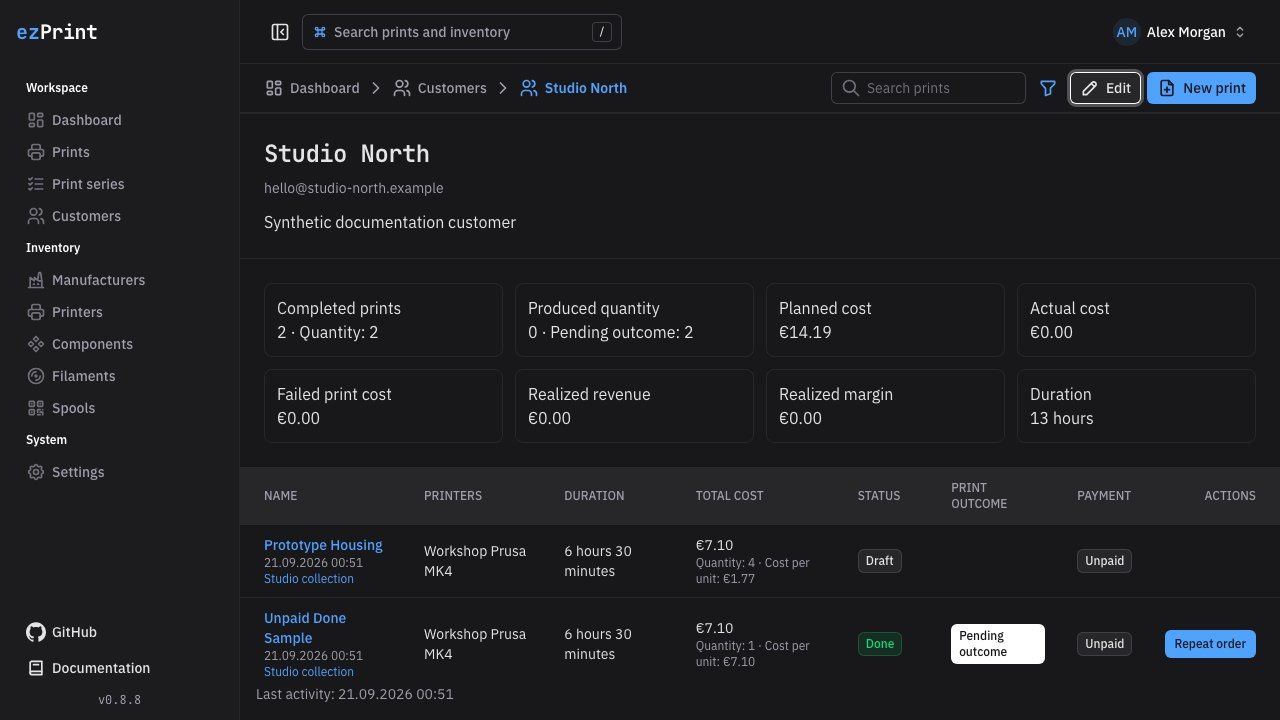
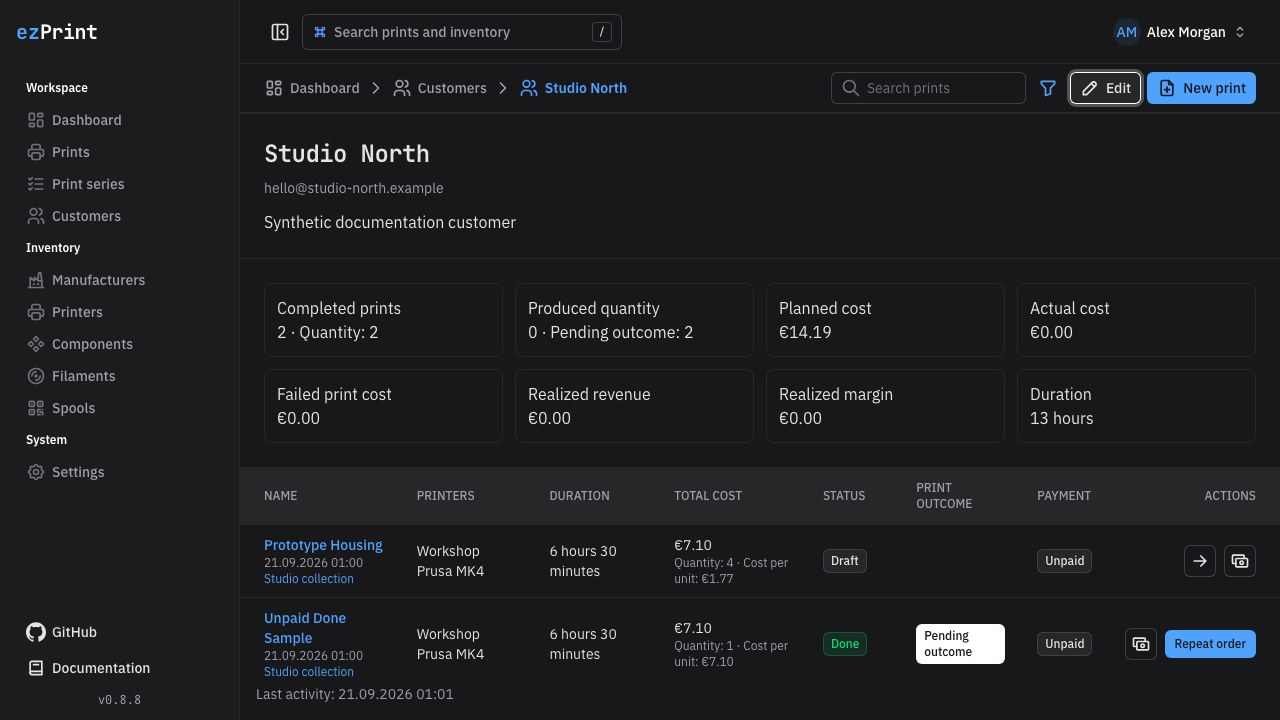
Add print table status and payment actions (#77)
* feat: add print table workflow actions

* test: await online bootstrap before offline check

diff --git a/tests/components/print-workflow-actions.test.ts b/tests/components/print-workflow-actions.test.ts
@@ -1,0 +1,86 @@
+import { createError, readBody } from 'h3';
+import { mountSuspended, registerEndpoint } from '@nuxt/test-utils/runtime';
+import { flushPromises } from '@vue/test-utils';
+import { beforeEach, describe, expect, it, vi } from 'vitest';
+import WorkflowActions from '../../app/components/modules/prints/WorkflowActions.vue';
+import { printStatuses } from '../../shared/schemas/prints';
+
+const print = { id: 'synthetic-print', status: 'DRAFT' as const, paidAt: null, archivedAt: null };
+const global = { stubs: { UTooltip: { inheritAttrs: false, template: '<slot />' } } };
+const request = vi.fn();
+registerEndpoint('/api/prints/synthetic-print', {
+  method: 'PATCH',
+  handler: async (event) =>
+    request('/api/prints/synthetic-print', { method: event.method, body: await readBody(event) }),
+});
+beforeEach(() => {
+  request.mockReset().mockResolvedValue({});
+});
+
+describe('print workflow row actions', () => {
+  it.each(printStatuses)('offers only the next status for %s', async (status) => {
+    const wrapper = await mountSuspended(WorkflowActions, { props: { print: { ...print, status } }, global });
+    const buttons = wrapper.findAll('button');
+    expect(buttons).toHaveLength(status === 'DONE' ? 1 : 2);
+    if (status === 'DRAFT') {
+      expect(request).not.toHaveBeenCalled();
+      wrapper.findComponent({ name: 'CommonConfirmButton' }).vm.$emit('confirm');
+    } else if (status !== 'DONE') await buttons[0]!.trigger('click');
+    await flushPromises();
+    if (status !== 'DONE') {
+      await vi.waitFor(() => expect(wrapper.emitted('updated')).toHaveLength(1));
+      expect(request).toHaveBeenCalledExactlyOnceWith('/api/prints/synthetic-print', {
+        method: 'PATCH',
+        body: { status: printStatuses[printStatuses.indexOf(status) + 1] },
+      });
+      expect(wrapper.emitted('updated')).toHaveLength(1);
+    } else expect(request).not.toHaveBeenCalled();
+    wrapper.unmount();
+  });
+
+  it('marks payment once, locks while pending, and refreshes after success', async () => {
+    let resolve!: (value: object) => void;
+    request.mockImplementation(
+      () =>
+        new Promise<object>((done) => {
+          resolve = done;
+        }),
+    );
+    const wrapper = await mountSuspended(WorkflowActions, {
+      props: { print: { ...print, status: 'PRINTING' } },
+      global,
+    });
+    await wrapper.findAll('button')[1]!.trigger('click');
+    expect(wrapper.findAll('button').every((button) => button.attributes('disabled') !== undefined)).toBe(
+      true,
+    );
+    await vi.waitFor(() => expect(request).toHaveBeenCalledTimes(1));
+    expect(request).toHaveBeenCalledExactlyOnceWith('/api/prints/synthetic-print', {
+      method: 'PATCH',
+      body: { paid: true },
+    });
+    expect(wrapper.emitted('updated')).toBeUndefined();
+    resolve({});
+    await vi.waitFor(() => expect(wrapper.emitted('updated')).toHaveLength(1));
+    expect(wrapper.emitted('updated')).toHaveLength(1);
+    await wrapper.setProps({ print: { ...print, status: 'PRINTING', paidAt: '2026-09-21T00:00:00Z' } });
+    expect(wrapper.findAll('button')).toHaveLength(1);
+    await wrapper.setProps({ print: { ...print, archivedAt: '2026-09-21T00:00:00Z' } });
+    expect(wrapper.findAll('button')).toHaveLength(0);
+    wrapper.unmount();
+  });
+
+  it('reports failed changes without requesting a refresh', async () => {
+    request.mockRejectedValue(createError({ statusCode: 409, statusMessage: 'Synthetic failure' }));
+    const wrapper = await mountSuspended(WorkflowActions, {
+      props: { print: { ...print, status: 'DONE' } },
+      global,
+    });
+    await wrapper.get('button').trigger('click');
+    await flushPromises();
+    await vi.waitFor(() => expect(wrapper.emitted('error')?.[0]?.[0]).toContain('Synthetic failure'));
+    expect(wrapper.emitted('updated')).toBeUndefined();
+    expect(wrapper.get('button').attributes('disabled')).toBeUndefined();
+    wrapper.unmount();
+  });
+});

diff --git a/tests/e2e/application.spec.ts b/tests/e2e/application.spec.ts
@@ -456,5 +456,76 @@ test('setup, navigation, persistence, accessibility, and responsive shell', asyn
   expect(geometry.tableScrollWidth!).toBeGreaterThan(geometry.tableClientWidth!);
   await page.keyboard.press('Tab');
   await expect(page.locator(':focus')).toBeVisible();
+  await page.setViewportSize({ width: 1280, height: 720 });
+  async function createRecord(resource: string, data: object) {
+    const response = await page.request.post(`/api/${resource}`, {
+      headers: { origin: new URL(page.url()).origin },
+      data,
+    });
+    expect(response.ok(), await response.text()).toBe(true);
+    return response.json();
+  }
+  const customer = await createRecord('customers', { name: 'Workflow customer' });
+  const manufacturer = await createRecord('manufacturers', { name: 'Workflow maker' });
+  const printer = await createRecord('printers', {
+    name: 'Workflow printer',
+    manufacturerId: manufacturer.id,
+    purchasePrice: '100',
+    expectedLifetimeHours: '1000',
+    averagePowerWatts: 100,
+  });
+  const buildPlate = await createRecord('components', {
+    name: 'Workflow plate',
+    type: 'BUILD_PLATE',
+    purchasePrice: '10',
+    expectedLifetimeHours: '1000',
+    printerIds: [printer.id],
+  });
+  const hotend = await createRecord('components', {
+    name: 'Workflow hotend',
+    type: 'HOTEND',
+    purchasePrice: '10',
+    expectedLifetimeHours: '1000',
+    printerIds: [printer.id],
+  });
+  const filament = await createRecord('filaments', {
+    manufacturerId: manufacturer.id,
+    material: 'PLA',
+    colorName: 'Blue',
+    colorHex: '#0000FF',
+    purchasePrice: '20',
+    netWeightGrams: '1000',
+  });
+  const spool = await createRecord('spools', {
+    filamentId: filament.id,
+    code: 'WORKFLOW-1',
+    purchasePrice: '20',
+    initialNetWeightGrams: '1000',
+  });
+  const draft = await createRecord('prints', {
+    name: 'Workflow print',
+    customerId: customer.id,
+    printerId: printer.id,
+    buildPlateId: buildPlate.id,
+    hotends: [{ componentId: hotend.id, durationSeconds: 3600 }],
+    filaments: [{ filamentId: filament.id, spoolId: spool.id, usedGrams: '10' }],
+  });
+  await page.goto('/prints');
+  const workflowRow = page.locator('tr').filter({ has: page.locator(`a[href="/prints/${draft.id}"]`) });
+  await workflowRow.getByRole('button', { name: 'Advance to Printing' }).click();
+  await expect(page.getByText('Leaving draft finalizes', { exact: false })).toBeVisible();
+  await page.getByRole('button', { name: 'Confirm', exact: true }).click();
+  await expect(workflowRow.getByRole('button', { name: 'Advance to Printed' })).toBeVisible();
+  await workflowRow.getByRole('button', { name: 'Mark as paid' }).click();
+  await expect(workflowRow.getByRole('button', { name: 'Mark as paid' })).toHaveCount(0);
+  await expect(workflowRow.getByText('Paid', { exact: true })).toBeVisible();
+  await page.goto(`/customers/${draft.customerId}`);
+  await expect(workflowRow.getByRole('button', { name: 'Advance to Printed' })).toBeVisible();
+  await workflowRow.getByRole('button', { name: 'Advance to Printed' }).click();
+  await expect(workflowRow.getByRole('button', { name: 'Advance to Shipped' })).toBeVisible();
+  const updatedPrint = await (await page.request.get(`/api/prints/${draft.id}`)).json();
+  expect(updatedPrint.status).toBe('PRINTED');
+  expect(updatedPrint.paidAt).toBeTruthy();
+  expect(updatedPrint.outcome).toBeNull();
   expect(iconCdnRequests).toEqual([]);
 });

diff --git a/app/components/modules/prints/WorkflowActions.vue b/app/components/modules/prints/WorkflowActions.vue
@@ -1,0 +1,65 @@
+<template>
+  <div v-if="!print.archivedAt" class="flex items-center justify-end gap-2">
+    <UTooltip v-if="nextStatus" :text="nextLabel">
+      <CommonConfirmButton
+        v-if="print.status === 'DRAFT'"
+        icon="i-tabler-arrow-right"
+        color="neutral"
+        variant="outline"
+        :aria-label="nextLabel"
+        :confirmation="t('prints.statusChangeConfirmation')"
+        :disabled="saving"
+        @confirm="update({ status: nextStatus })"
+      />
+      <UButton
+        v-else
+        icon="i-tabler-arrow-right"
+        color="neutral"
+        variant="outline"
+        :aria-label="nextLabel"
+        :loading="saving"
+        @click="update({ status: nextStatus })"
+      />
+    </UTooltip>
+    <UTooltip v-if="!print.paidAt" :text="t('prints.markPaid')">
+      <UButton
+        icon="i-tabler-cash"
+        color="neutral"
+        variant="outline"
+        :aria-label="t('prints.markPaid')"
+        :loading="saving"
+        @click="update({ paid: true })"
+      />
+    </UTooltip>
+    <slot />
+  </div>
+</template>
+
+<script setup lang="ts">
+import { printStatuses, type PrintStatus } from '#shared/schemas/prints';
+import type { PrintJobDto } from '#shared/types/prints';
+
+const props = defineProps<{ print: Pick<PrintJobDto, 'id' | 'status' | 'paidAt' | 'archivedAt'> }>();
+const emit = defineEmits<{ updated: []; error: [message: string] }>();
+const { t } = useI18n();
+const saving = ref(false);
+const nextStatus = computed(() => printStatuses[printStatuses.indexOf(props.print.status) + 1]);
+const nextLabel = computed(() =>
+  nextStatus.value
+    ? t('prints.advanceStatus', { status: t(`prints.${nextStatus.value.toLowerCase()}`) })
+    : '',
+);
+
+async function update(body: { status?: PrintStatus; paid?: boolean }) {
+  if (saving.value || props.print.archivedAt) return;
+  saving.value = true;
+  try {
+    await $fetch(`/api/prints/${props.print.id}`, { method: 'PATCH', body });
+    emit('updated');
+  } catch (reason) {
+    emit('error', reason instanceof Error ? reason.message : String(reason));
+  } finally {
+    saving.value = false;
+  }
+}
+</script>

diff --git a/app/components/modules/prints/TableView.vue b/app/components/modules/prints/TableView.vue
@@ -111,7 +111,7 @@
             <th class="px-4 py-3 font-medium">{{ t('prints.status') }}</th>
             <th class="px-4 py-3 font-medium">{{ t('outcome.title') }}</th>
             <th class="px-4 py-3 font-medium">{{ t('prints.payment') }}</th>
-            <th v-if="customerId" class="px-4 py-3 text-right font-medium sm:pr-6">
+            <th class="px-4 py-3 text-right font-medium sm:pr-6">
               {{ t('history.actions') }}
             </th>
           </tr>
@@ -174,13 +174,15 @@
                 {{ t(item.paidAt ? 'prints.paid' : 'prints.unpaid') }}
               </UBadge>
             </td>
-            <td v-if="customerId" class="px-4 py-2.5 text-right sm:pr-6">
-              <UButton
-                v-if="item.status === 'DONE' && !item.archivedAt"
-                size="sm"
-                :label="t('history.repeat')"
-                @click="repeat(item.id)"
-              />
+            <td class="px-4 py-2.5 text-right sm:pr-6">
+              <ModulesPrintsWorkflowActions :print="item" @updated="refresh" @error="error = $event">
+                <UButton
+                  v-if="customerId && item.status === 'DONE' && !item.archivedAt"
+                  size="sm"
+                  :label="t('history.repeat')"
+                  @click="repeat(item.id)"
+                />
+              </ModulesPrintsWorkflowActions>
             </td>
           </tr>
         </tbody>

diff --git a/tests/pwa/application.spec.ts b/tests/pwa/application.spec.ts
@@ -9,6 +9,9 @@ test('launches the cached application shell without requesting API data offline'
   await page.reload();
   await expect.poll(() => page.evaluate(() => navigator.serviceWorker.controller !== null)).toBe(true);
 
+  // Finish the reloaded online page before observing requests made by offline navigation.
+  await expect(page.getByRole('heading', { name: 'Ersteinrichtung' })).toBeVisible();
+
   const apiRequests: string[] = [];
   page.on('request', (request) => {
     if (new URL(request.url()).pathname.startsWith('/api/')) apiRequests.push(request.url());

diff --git a/docs/guide/print-workflow.md b/docs/guide/print-workflow.md
@@ -5,6 +5,11 @@ description: Create print drafts, move them through production and delivery, tra
 
 # Print workflow
 
+The print list and customer print history include row actions to advance a print to the next workflow status
+or mark it as paid. Leaving **Draft** requires confirmation because it freezes the cost snapshot. The next-status
+action disappears at **Done**, and the payment action disappears once paid. Archived prints cannot be changed
+from these row actions. Marking a print **Done** does not record a successful or failed outcome; record that separately.
+
 ## Prints page
 
 The `/prints` table shows name, customer, printer, total duration, total cost, workflow status, and payment status.

diff --git a/.changeset/print-table-workflow.md b/.changeset/print-table-workflow.md
@@ -1,0 +1,5 @@
+---
+'ezprint': patch
+---
+
+Add next-status and mark-paid actions to print and customer-history tables.
